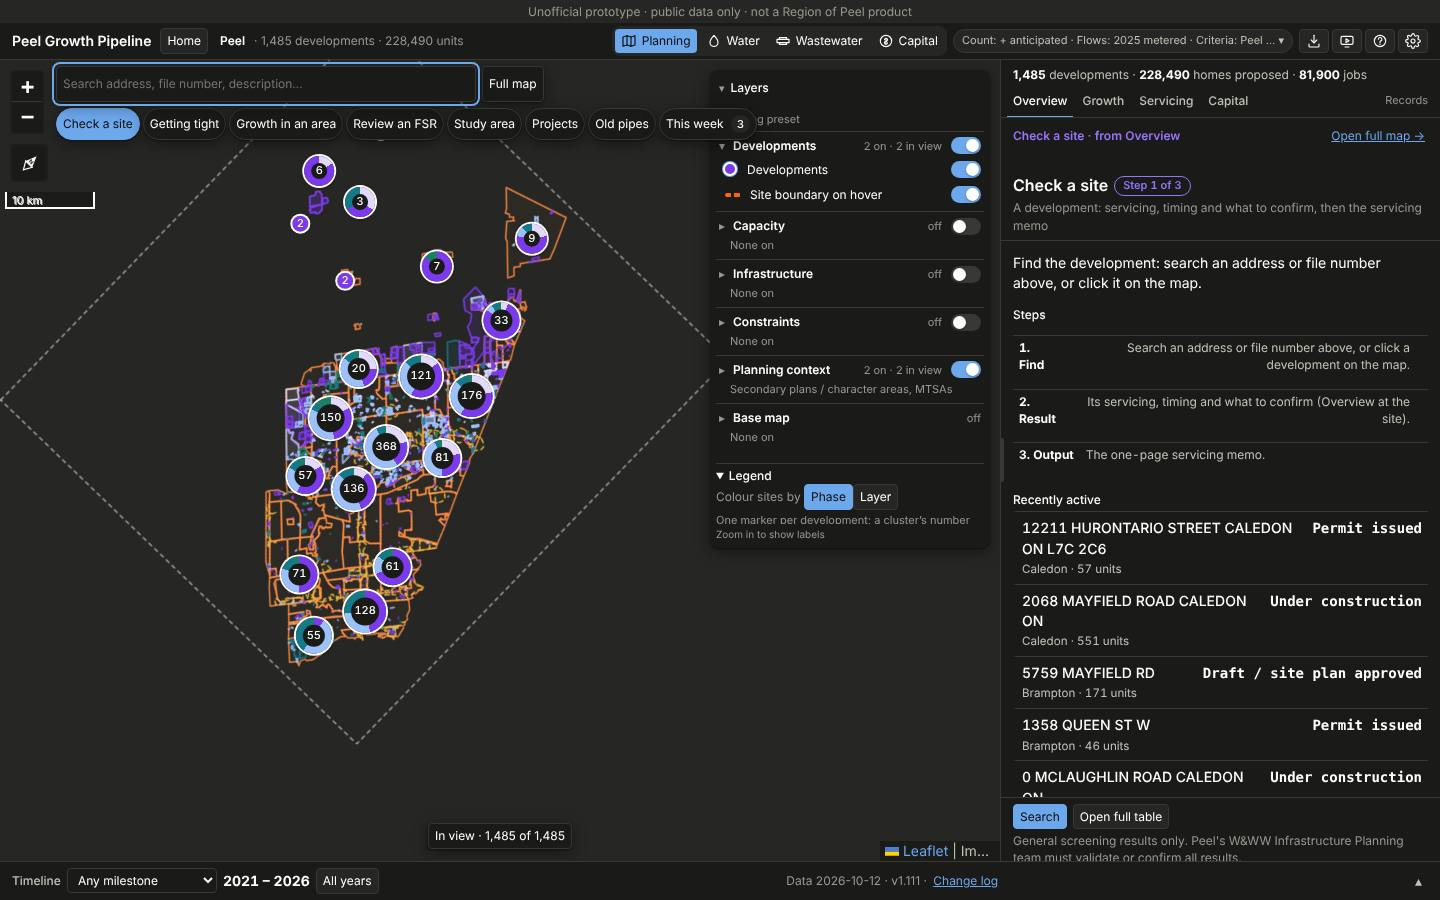
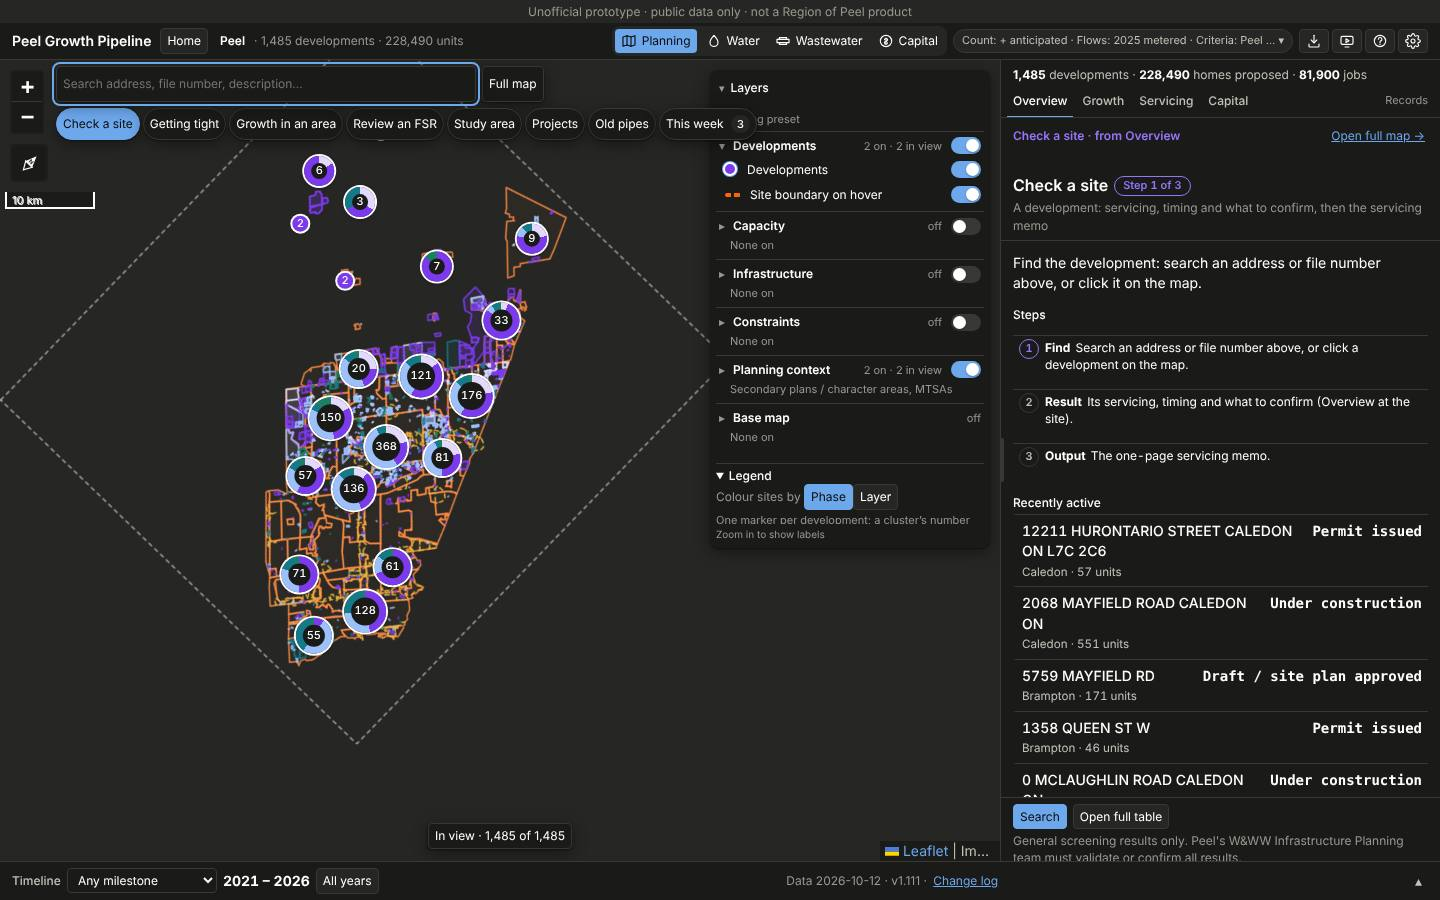
Check a site / Review an FSR: the steps as a numbered list, the current step marked
Claude-Session: https://claude.ai/code/session_01E9zDvm6xW3ynJ788gjwVZS

Changed region(s): [[0.6875, 0.3733, 1.0, 0.8711]]

diff --git a/js/workspaces.js b/js/workspaces.js
@@ -184,7 +184,7 @@
       head: { name: w.label, status: { tone: 'stage', text: 'Step 1 of 3' }, identity: esc(w.what) },
       answer: 'Find the development: search an address or file number above, or click it on the map.',
       lists: [
-        { title: 'Steps', rows: steps.map(([t, d], i) => ({ kv: true, html: `<div class="pnl-kv"><span><strong>${i + 1}. ${t}</strong></span><span>${esc(d)}</span></div>` })), total: 3 },
+        { title: 'Steps', rows: steps.map(([t, d], i) => ({ kv: true, html: `<div class="pnl-step${i === 0 ? ' on' : ''}"><span class="pnl-step-n" aria-hidden="true">${i + 1}</span><span><strong>${t}</strong> ${esc(d)}</span></div>` })), total: 3 },
         { title: 'Recently active', rows: recent.map(p => ({ attrs: { 'data-pnl-dev': p.key, title: `Open ${p.title}` }, html: `<div class="pnl-r-top"><span class="pnl-r-name">${esc(p.title)}</span><span class="pnl-r-year">${esc(P && P.PHASE_BY_KEY[p.phase] ? P.PHASE_BY_KEY[p.phase].label : p.phase)}</span></div><small class="pnl-r-line">${esc(p.municipality)} · ${fmtNum(p.units)} units</small>` })), total: recent.length },
       ],
       foot: { primary: { label: 'Search', attrs: { 'data-ws-focus': '' } } },

diff --git a/css/app.css b/css/app.css
@@ -2859,6 +2859,11 @@ html:not(.lab-hydro) .lab-hydro, html:not(.lab-funding) [data-dcasub="funding"] 
 .pnl-src { display: flex; justify-content: space-between; align-items: center; gap: var(--space-2); margin: 0 0 var(--space-1); color: var(--text-muted); }
 .pnl-src > span { font-weight: 600; color: var(--pnl-stage, var(--text-secondary)); }
 .pnl-steps { display: block; font-weight: 400; color: var(--text-muted); }
+/* Check a site / Review an FSR: the steps as a numbered list (the current one marked). */
+.pnl-step { display: flex; align-items: baseline; gap: var(--space-2); }
+.pnl-step-n { flex: 0 0 auto; width: 20px; height: 20px; border-radius: 50%; display: inline-flex; align-items: center; justify-content: center; font-size: var(--fs-1); font-weight: 600; border: 1px solid var(--border); color: var(--text-secondary); }
+.pnl-step.on .pnl-step-n { border-color: var(--pnl-stage); color: var(--pnl-stage); }
+.pnl-step strong { margin-right: 2px; }
 .tb-home { flex: 0 0 auto; }
 /* Home: below the top bar, over the map and panels. */
 .home { position: fixed; top: var(--top-h, 0px); left: 0; right: 0; bottom: 0; z-index: 1150; background: var(--surface-0); overflow: auto; }

diff --git a/tests/workspaces.test.js b/tests/workspaces.test.js
@@ -136,7 +136,11 @@ test('2. workspace figures equal full-map figures (Home and This week read the P
   for (const id of ['tight', 'growth', 'projects']) { B.go(id); const p = B.plan(id); assert.equal(B.override(`${p.tab}:${p.sub}`, 'area'), null, id); }
   // Check a site before a site is picked: the Find step; once a site is open, the site's own panel.
   B.go('site');
-  assert.equal(B.override('overview:', 'area').head.name, 'Check a site');
+  const find = B.override('overview:', 'area');
+  assert.equal(find.head.name, 'Check a site');
+  // The steps as a numbered list, Find marked as the current step.
+  assert.deepEqual(plain(find.lists[0].rows.map(r => r.html.match(/<span class="pnl-step-n" aria-hidden="true">(\d)<\/span><span><strong>(\w+)<\/strong>/).slice(1))), [['1', 'Find'], ['2', 'Result'], ['3', 'Output']]);
+  assert.match(find.lists[0].rows[0].html, /^<div class="pnl-step on">/);
   assert.equal(B.override('overview:', 'dev:x'), null);
 });
 
